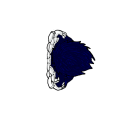
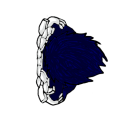
players sprite normalisation

diff --git a/game/src/fr/itemsApp/character/CharacterFactory.java b/game/src/fr/itemsApp/character/CharacterFactory.java
@@ -31,7 +31,7 @@ public class CharacterFactory {
 	public ICharacter create(String type) {
 		switch (type.toLowerCase()) {
 		case "red":
-			return new CharacterRed(0, 0, 100, 1400, 500);
+			return new CharacterYellow(0, 0, 100, 1400, 500);
 		}
 		return null;
 	}
